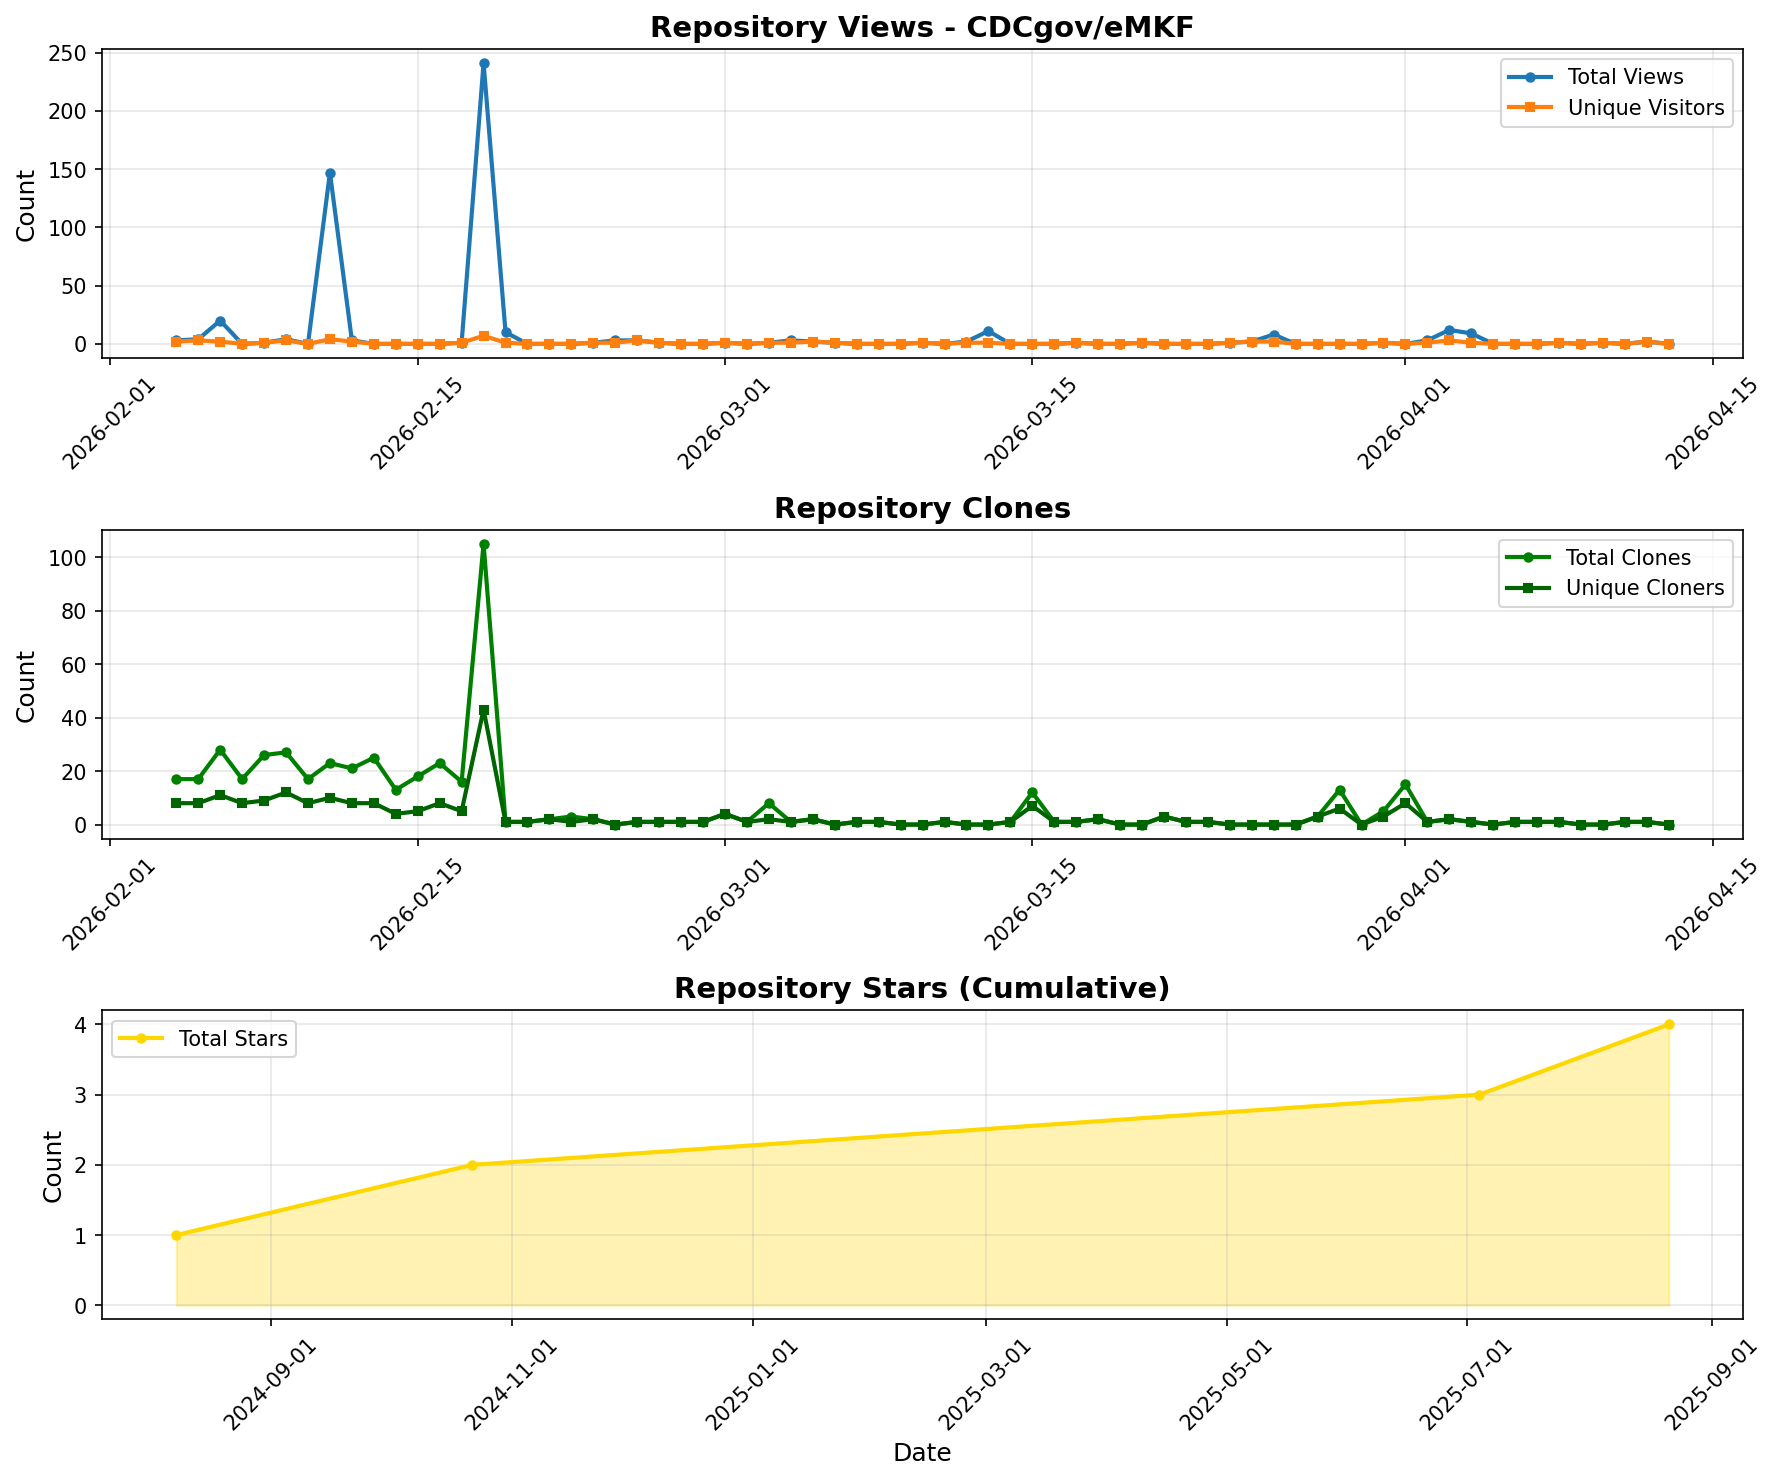
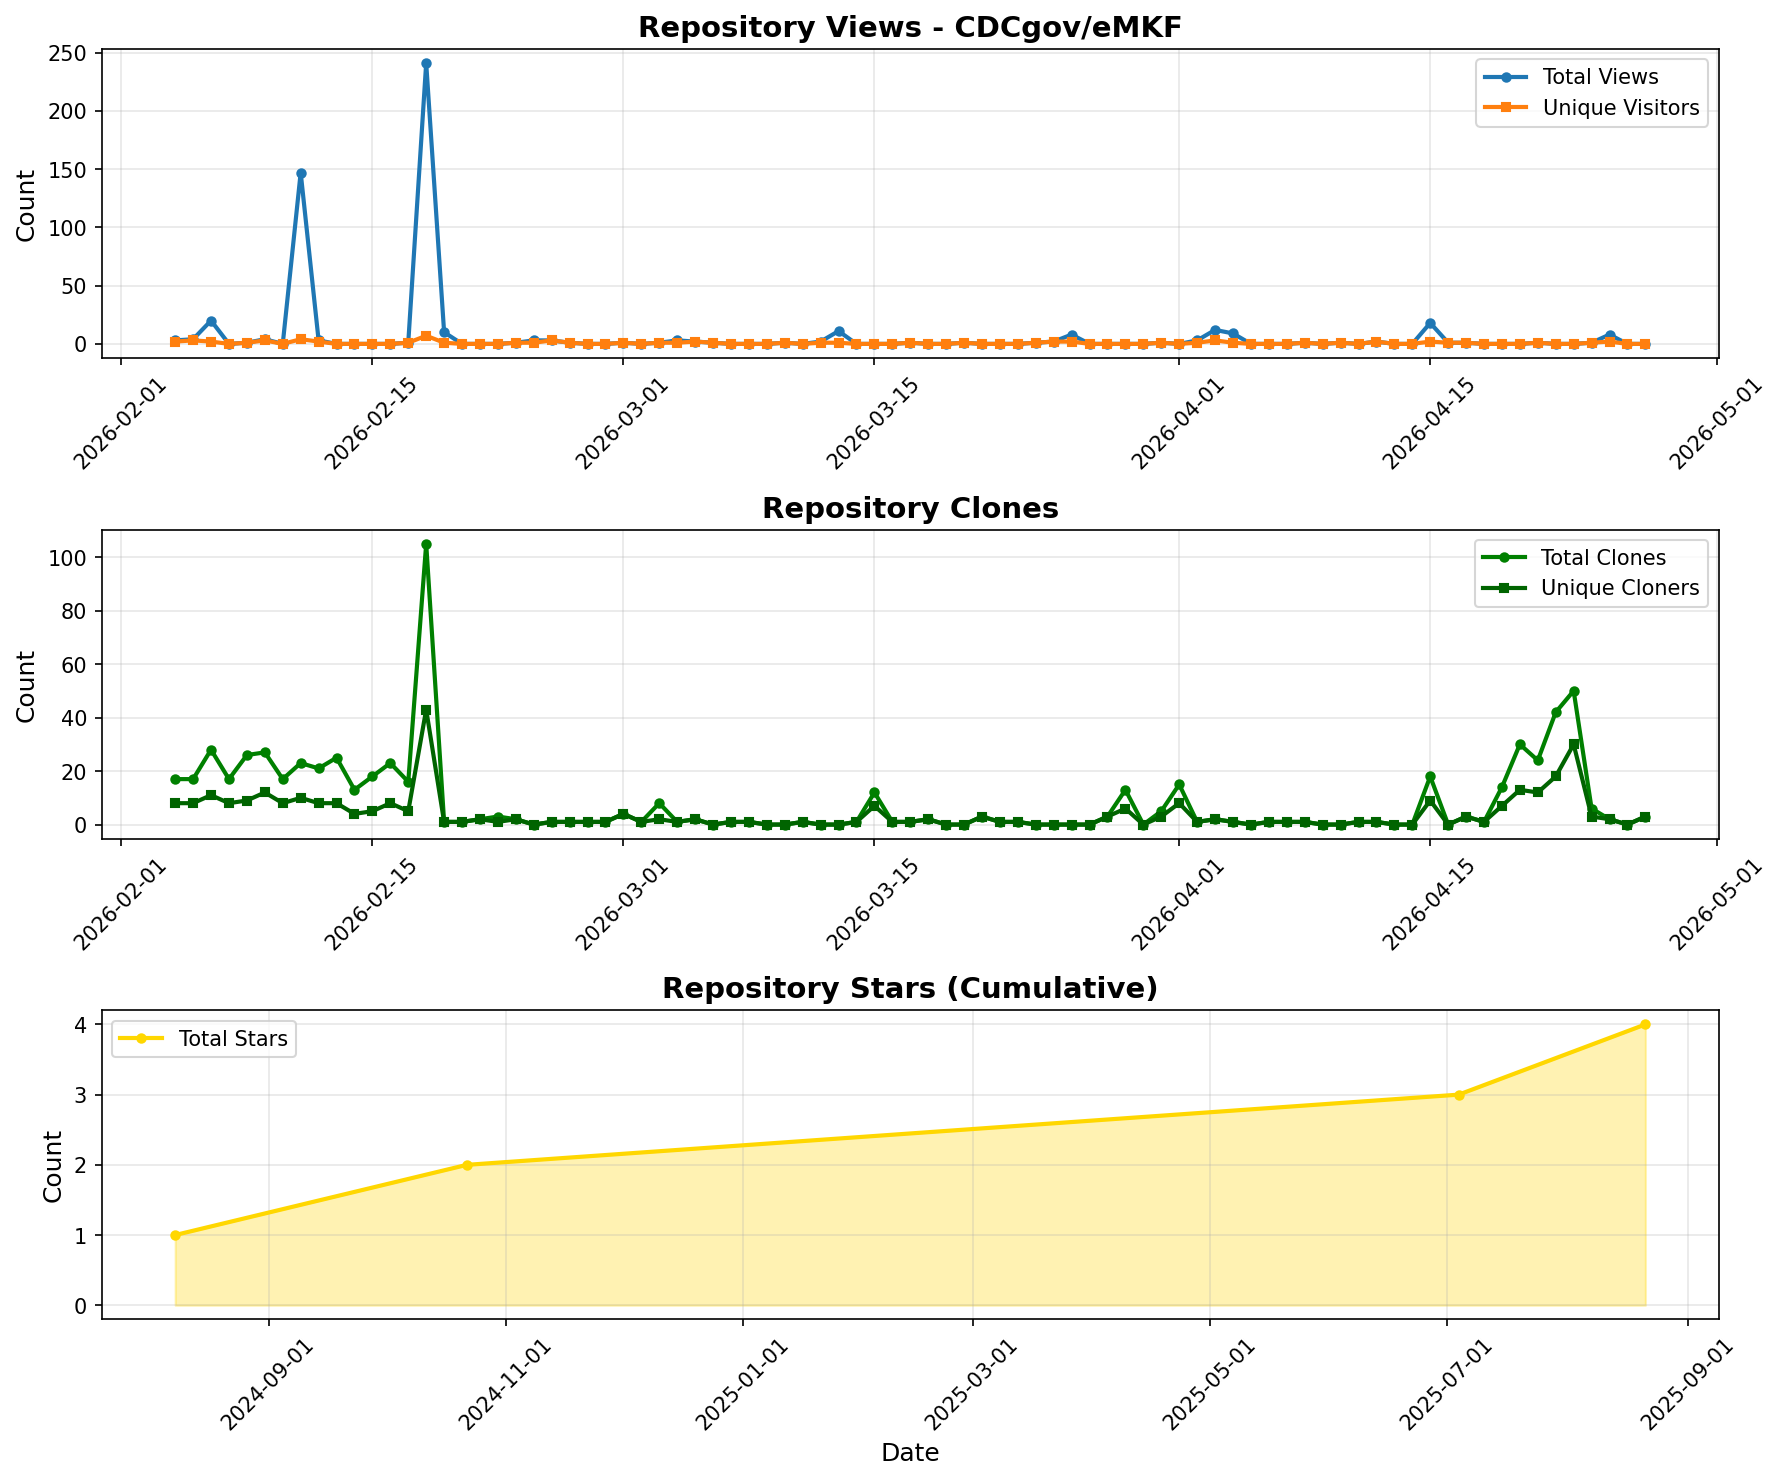
Update traffic stats [skip ci]

diff --git a/.traffic/README.md b/.traffic/README.md
@@ -1,6 +1,6 @@
 # Repository Traffic Statistics
 
-> Last updated: **April 15, 2026 at 01:21 UTC**
+> Last updated: **April 29, 2026 at 01:54 UTC**
 
 ## 📊 Traffic Overview
 
@@ -11,15 +11,15 @@
 ### Latest 14 Days
 | Metric | Total | Unique |
 |--------|-------|--------|
-| 👁 **Views** | 29 | 10 |
-| 📦 **Clones** | 29 | 20 |
+| 👁 **Views** | 30 | 8 |
+| 📦 **Clones** | 193 | 101 |
 | ⭐ **Stars** | 4 | - |
 
 ### All Time (Since Tracking Started)
 | Metric | Total | Unique | Data Points |
 |--------|-------|--------|-------------|
-| 👁 **Views** | 506 | 58 | 69 days |
-| 📦 **Clones** | 492 | 225 | 69 days |
+| 👁 **Views** | 536 | 66 | 83 days |
+| 📦 **Clones** | 685 | 326 | 83 days |
 | ⭐ **Stars** | 4 | - | 4 days |
 
 ## 📁 Available Files
